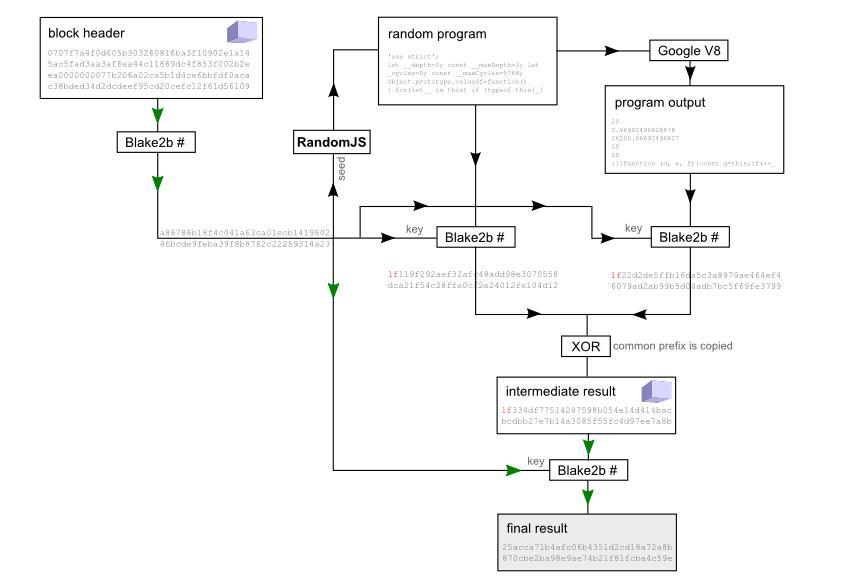
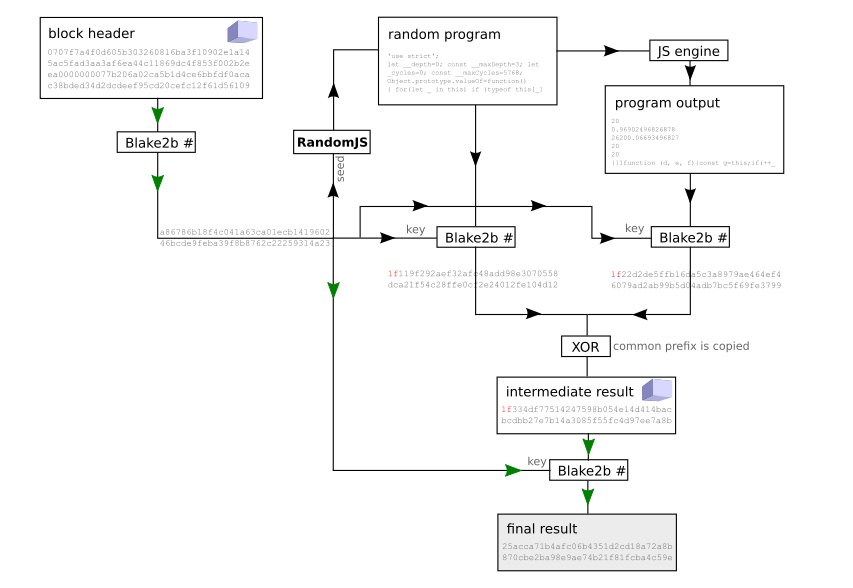
Updated description and diagram

diff --git a/README.md b/README.md
@@ -2,12 +2,12 @@
 This is a concept implementation of a proof-of-work (PoW) algorithm proposal for Monero (but it's usable for any PoW cryptocurrency). Credits to @hyc for the original idea to use random javascript execution to achieve ASIC resistance.
 
 ### Key features
-* __ASIC resistant__. This is important for a decentralized cryptocurrency and allows anyone with an ordinary computer to participate in securing the network. The algorithm internally uses the Google V8 Javascript engine, which is a large software package consisting of almost 2 million lines of code. Full hardware implementation would require an enormous investment.
+* __ASIC resistant__. This is important for a decentralized cryptocurrency and allows anyone with an ordinary computer to participate in securing the network. The algorithm internally uses a Javascript engine, which is a large software package that can take advantage of CPU features such as branch prediction, caching and out-of-order execution. Full hardware implementation would require an enormous investment.
 * __Asymmetrical__. The algorithm supports configurable asymmetry. Finding a single solution takes 2<sup>N</sup> times more effort than verifying a valid solution. This is beneficial for mining pools by reducing their hardware requirements.
 * __DoS resistant__. The algorithm stores an intermediate value in the block header, allowing quick verification whether the PoW meets the difficulty target. This requires just two Blake2b hash calculations (roughly 500 nanoseconds on a modern CPU). This is beneficial both for mining pools and network nodes in case someone wanted to flood them with invalid blocks.
 
 ## Algorithm description
-![diagram](https://raw.githubusercontent.com/tevador/RandomJS/master/doc/diagram.png)
+![diagram](doc/diagram.png)
 
 ### Cryptographic hash function
 The primary general-purpose hash function used by RandomJS is Blake2b with output size of 256 bits. This hash function was chosen for 3 primary reasons:
@@ -51,6 +51,9 @@ Verifying a valid solution requires 4 Blake2b hash calculations, one random prog
 
 In case of an DoS attack attempt, just 2 Blake2b hash calculations are required to discard the block. Otherwise an attacker needs to calculate substantial number of Blake2b hashes (equal to the current block difficulty) to force the verifying party to run the relatively costly (~few milliseconds) javascript generation and execution procedure.
 
+### RandomJS generator
+The generator is documented in [generator.md](doc/generator.md).
+
 ## Build dependencies and instructions
 The concept of random javascript generator and miner presented here is written in C#. The generated javascript code is run externally in a NodeJS sandbox.
 
@@ -59,7 +62,7 @@ The project has 4 executables:
 * `Tevador.RandomJS.exe` - generates a random javascript program and prints it to standard output. Optional parameter is a 256-bit seed (64 hex characters). The generator reads its settings from the `ProgramOptions.xml` file.
 * `sandbox.js` - NodeJS sandbox for executing javascript. The sandbox must be running to use the 2 executables below.
 * `Tevador.RandomJS.Miner.exe` - runs the miner for about 60 seconds and shows the mining statistics. Optional parameter is a Monero block header template (152 hex characters).
-* `Tevador.RandomJS.Test.exe` - runs 1000 random programs and prints statistics. Optional parameter is the number of programs to be executed (default 1000).
+* `Tevador.RandomJS.Test.exe` - runs 1000 random programs and prints statistics. Run `Tevador.RandomJS.Test.exe -h` for a list of supported parameters.
 
 ### Windows
 #### Dependencies
